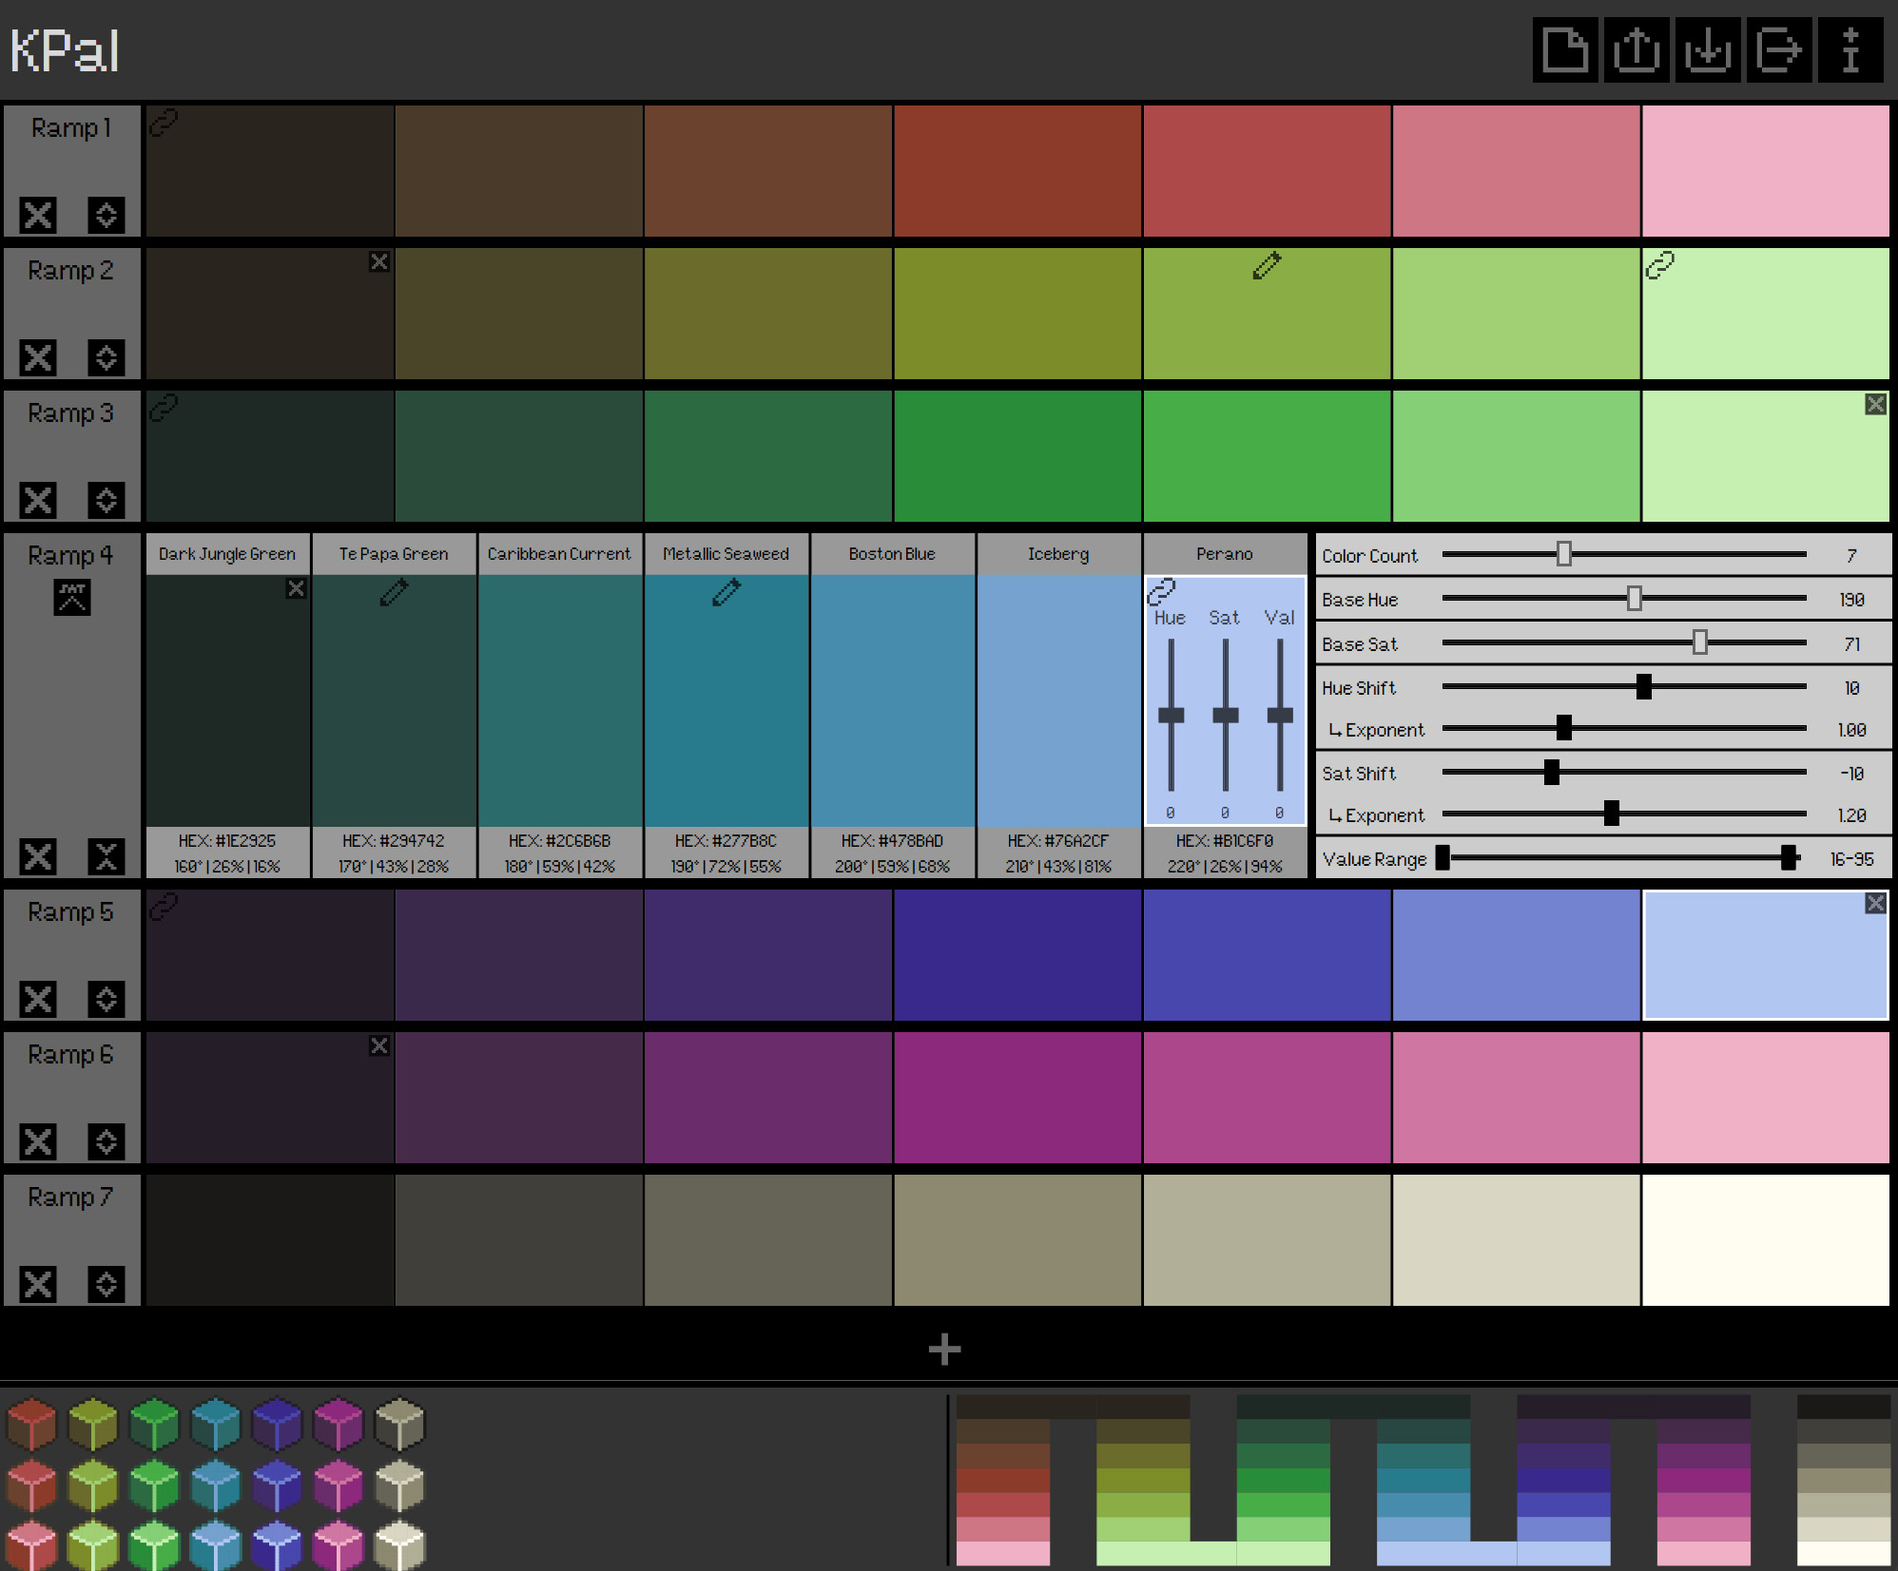
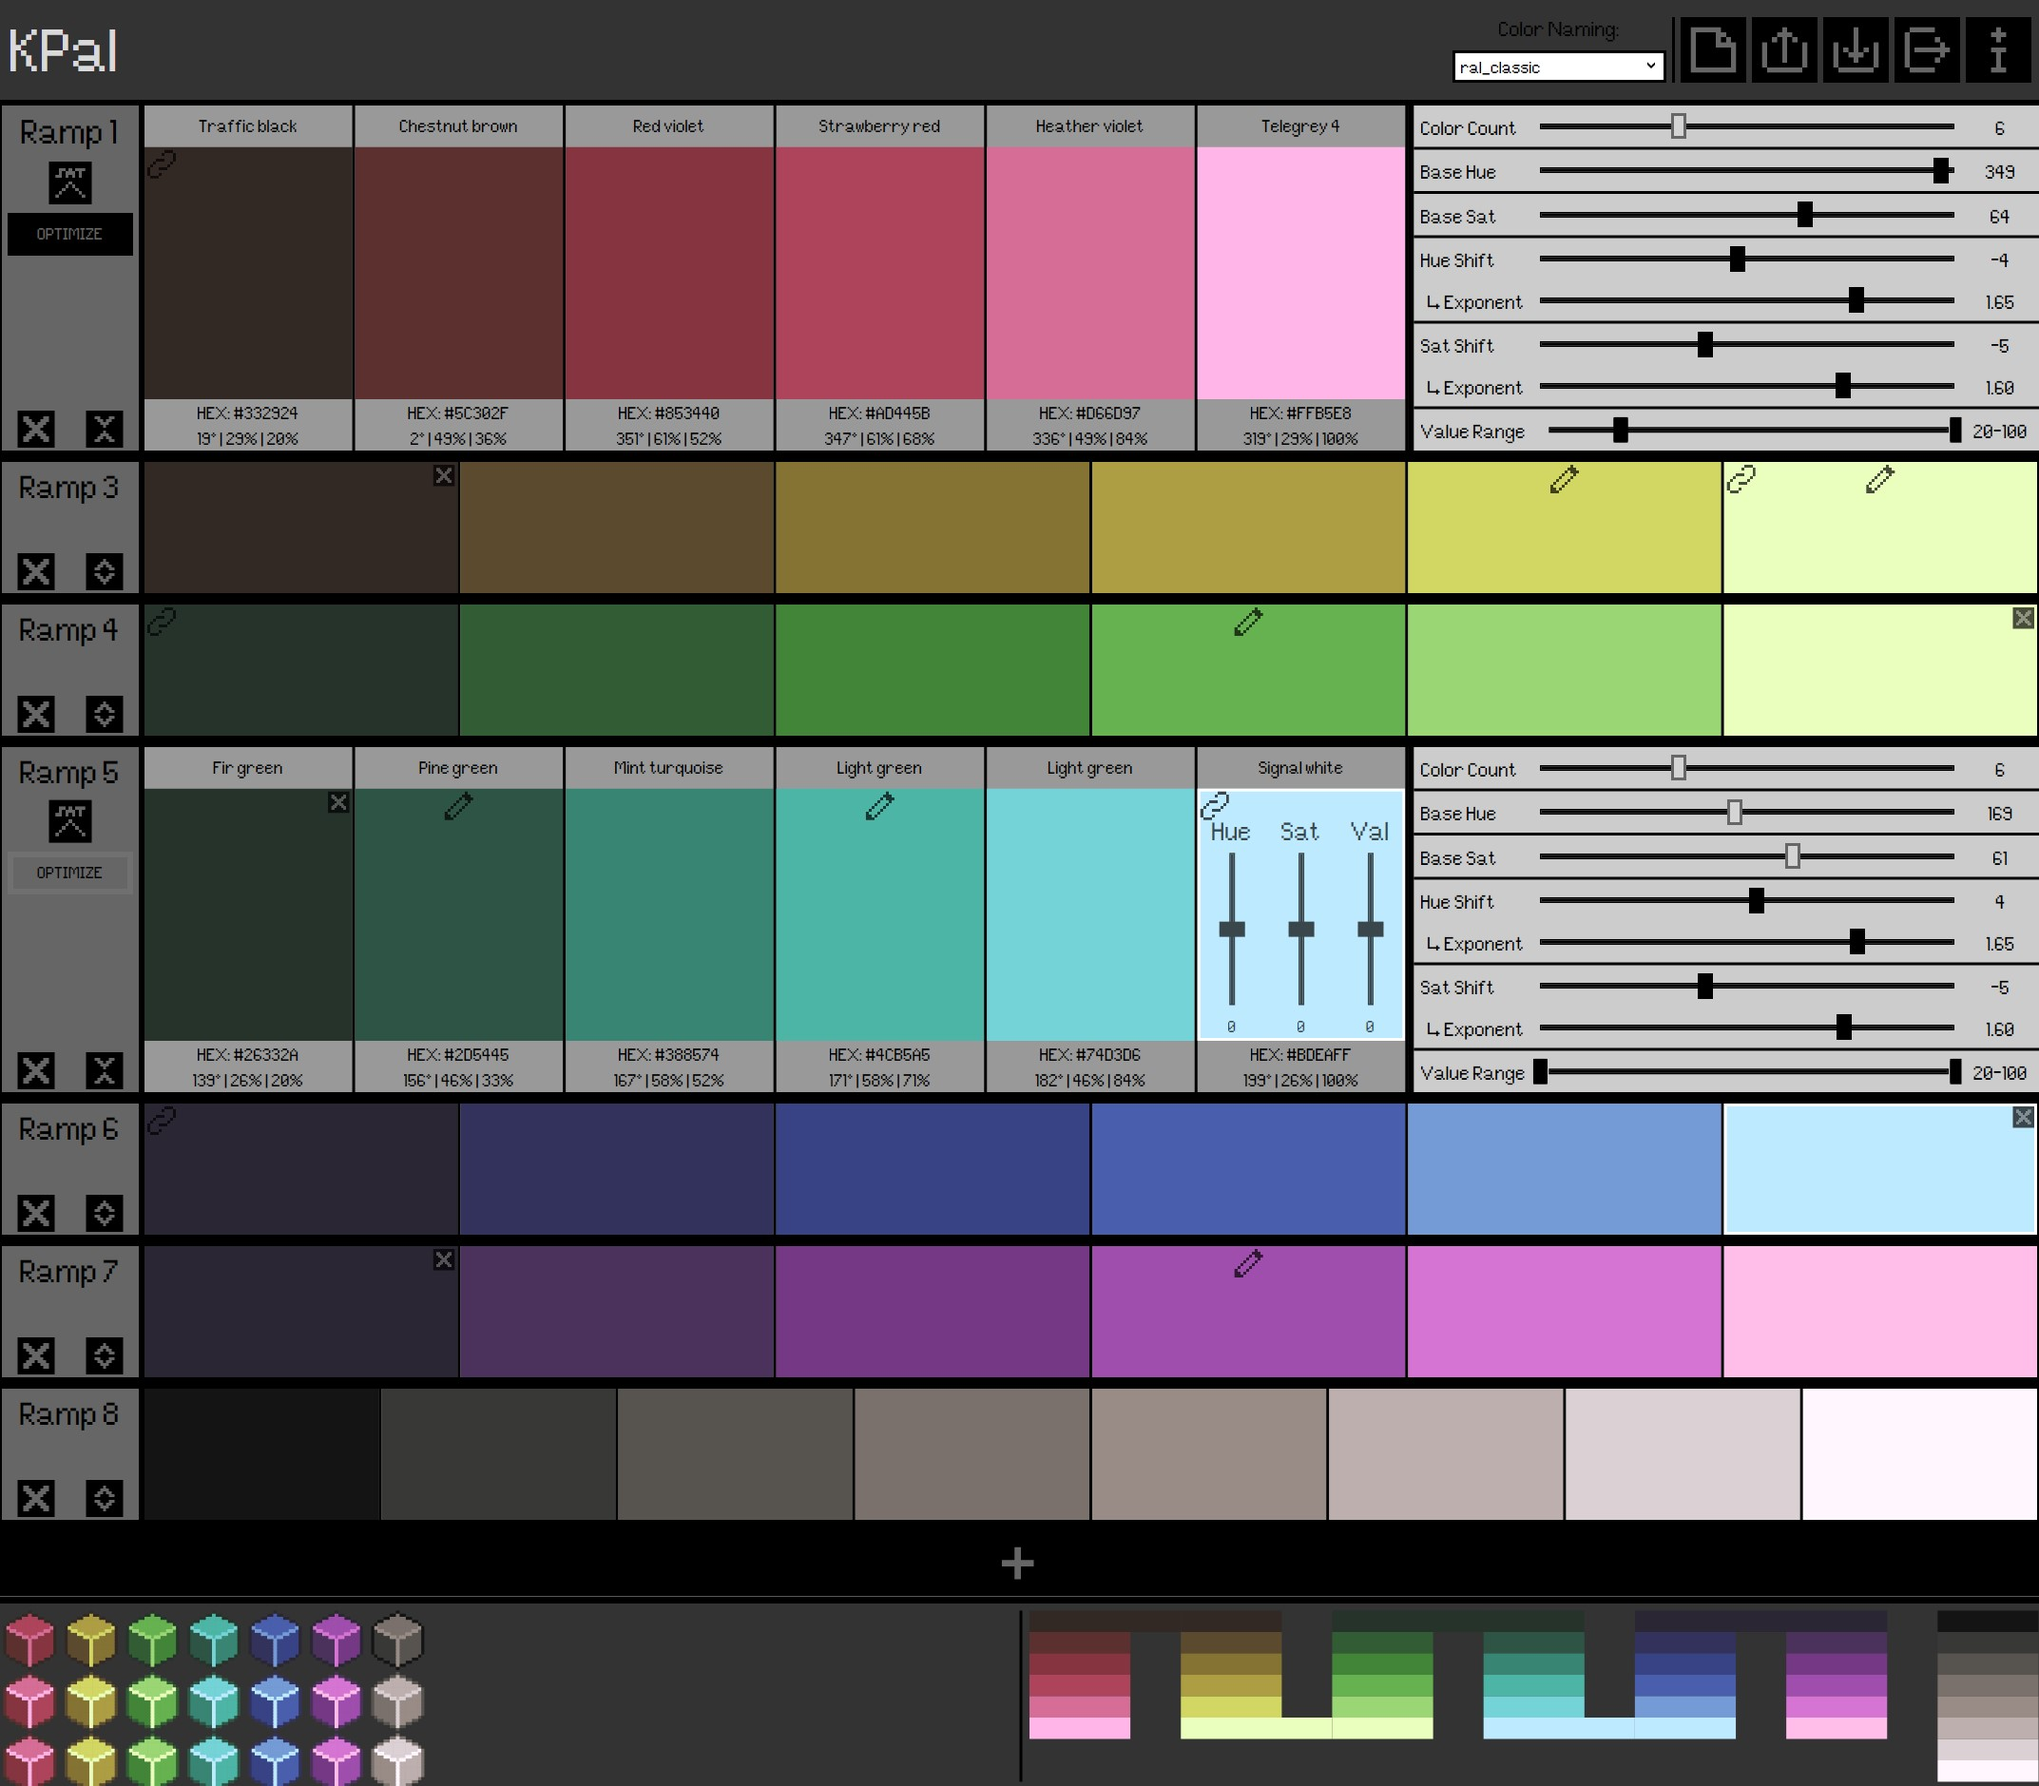
Updated readme and screenshot for latest changes.

diff --git a/README.md b/README.md
@@ -16,19 +16,22 @@ KPal is a tool to create color palettes usually for pixel art creation. The gene
   * JASC/PSP pal
   * (Open/Libre/Star)Office soc
 * Fine adjustments for each color
-* Selectable saturation shift behavior for darker values
+* Selectable saturation shift behavior
+* Color distance optimization per ramp (CIE94)
+* Different color naming presets
 ## Build
 KPal is a Visual Studio/C#/WPF project. Open, build and run the solution in Visual Studio.
 ## Installation / Releases
 You can download a release for Windows from the [releases section](https://github.com/krush62/KPal/releases).
-No installation is needed. KPal.exe is the application itself, colors.csv contains the list of color names (This file is not mandatory but highly recommended).
+No installation is needed. KPal.exe is the application itself, the ColorNames subdirectory contains files with the different color names (These files are not mandatory but highly recommended).
 This application needs .NET (Microsoft Windows Deskop Runtime) to work.
 ## Usage Tips
-* To link colors: drag a color from one palette to a color of another palette
-* Save as a different file: a "Save as" functionality is available when using the right mouse button for the save button
-* Reset slider values: double clicking the numeric value representation will reset the corresponding slider
-* To change the visualizer type on the bottom, hover the visualizer area and select a different visualizer from the drop-down list.
-* You can copy the hex value of a color by clicking the label showing the hex value
+* **Link colors:** Drag a color from one palette to a color of another palette
+* **Save as a different file:** A "Save as" functionality is available when using the right mouse button for the save button
+* **Reset slider values:** Double clicking the numeric value representation will reset the corresponding slider
+* **Change the visualizer type on the bottom:** Hover the visualizer area and select a different visualizer from the drop-down list
+* **Copy the hex value of a color:** Click the label showing the hex value
+* **Color distance optimization:** Click the *OPTIMIZE* button on the left side of a color ramp to even out the CIELAB distance between colors
 
 ## Screenshots
 ![SCREENSHOT](screenshots/screenshot.jpg?raw=true)
